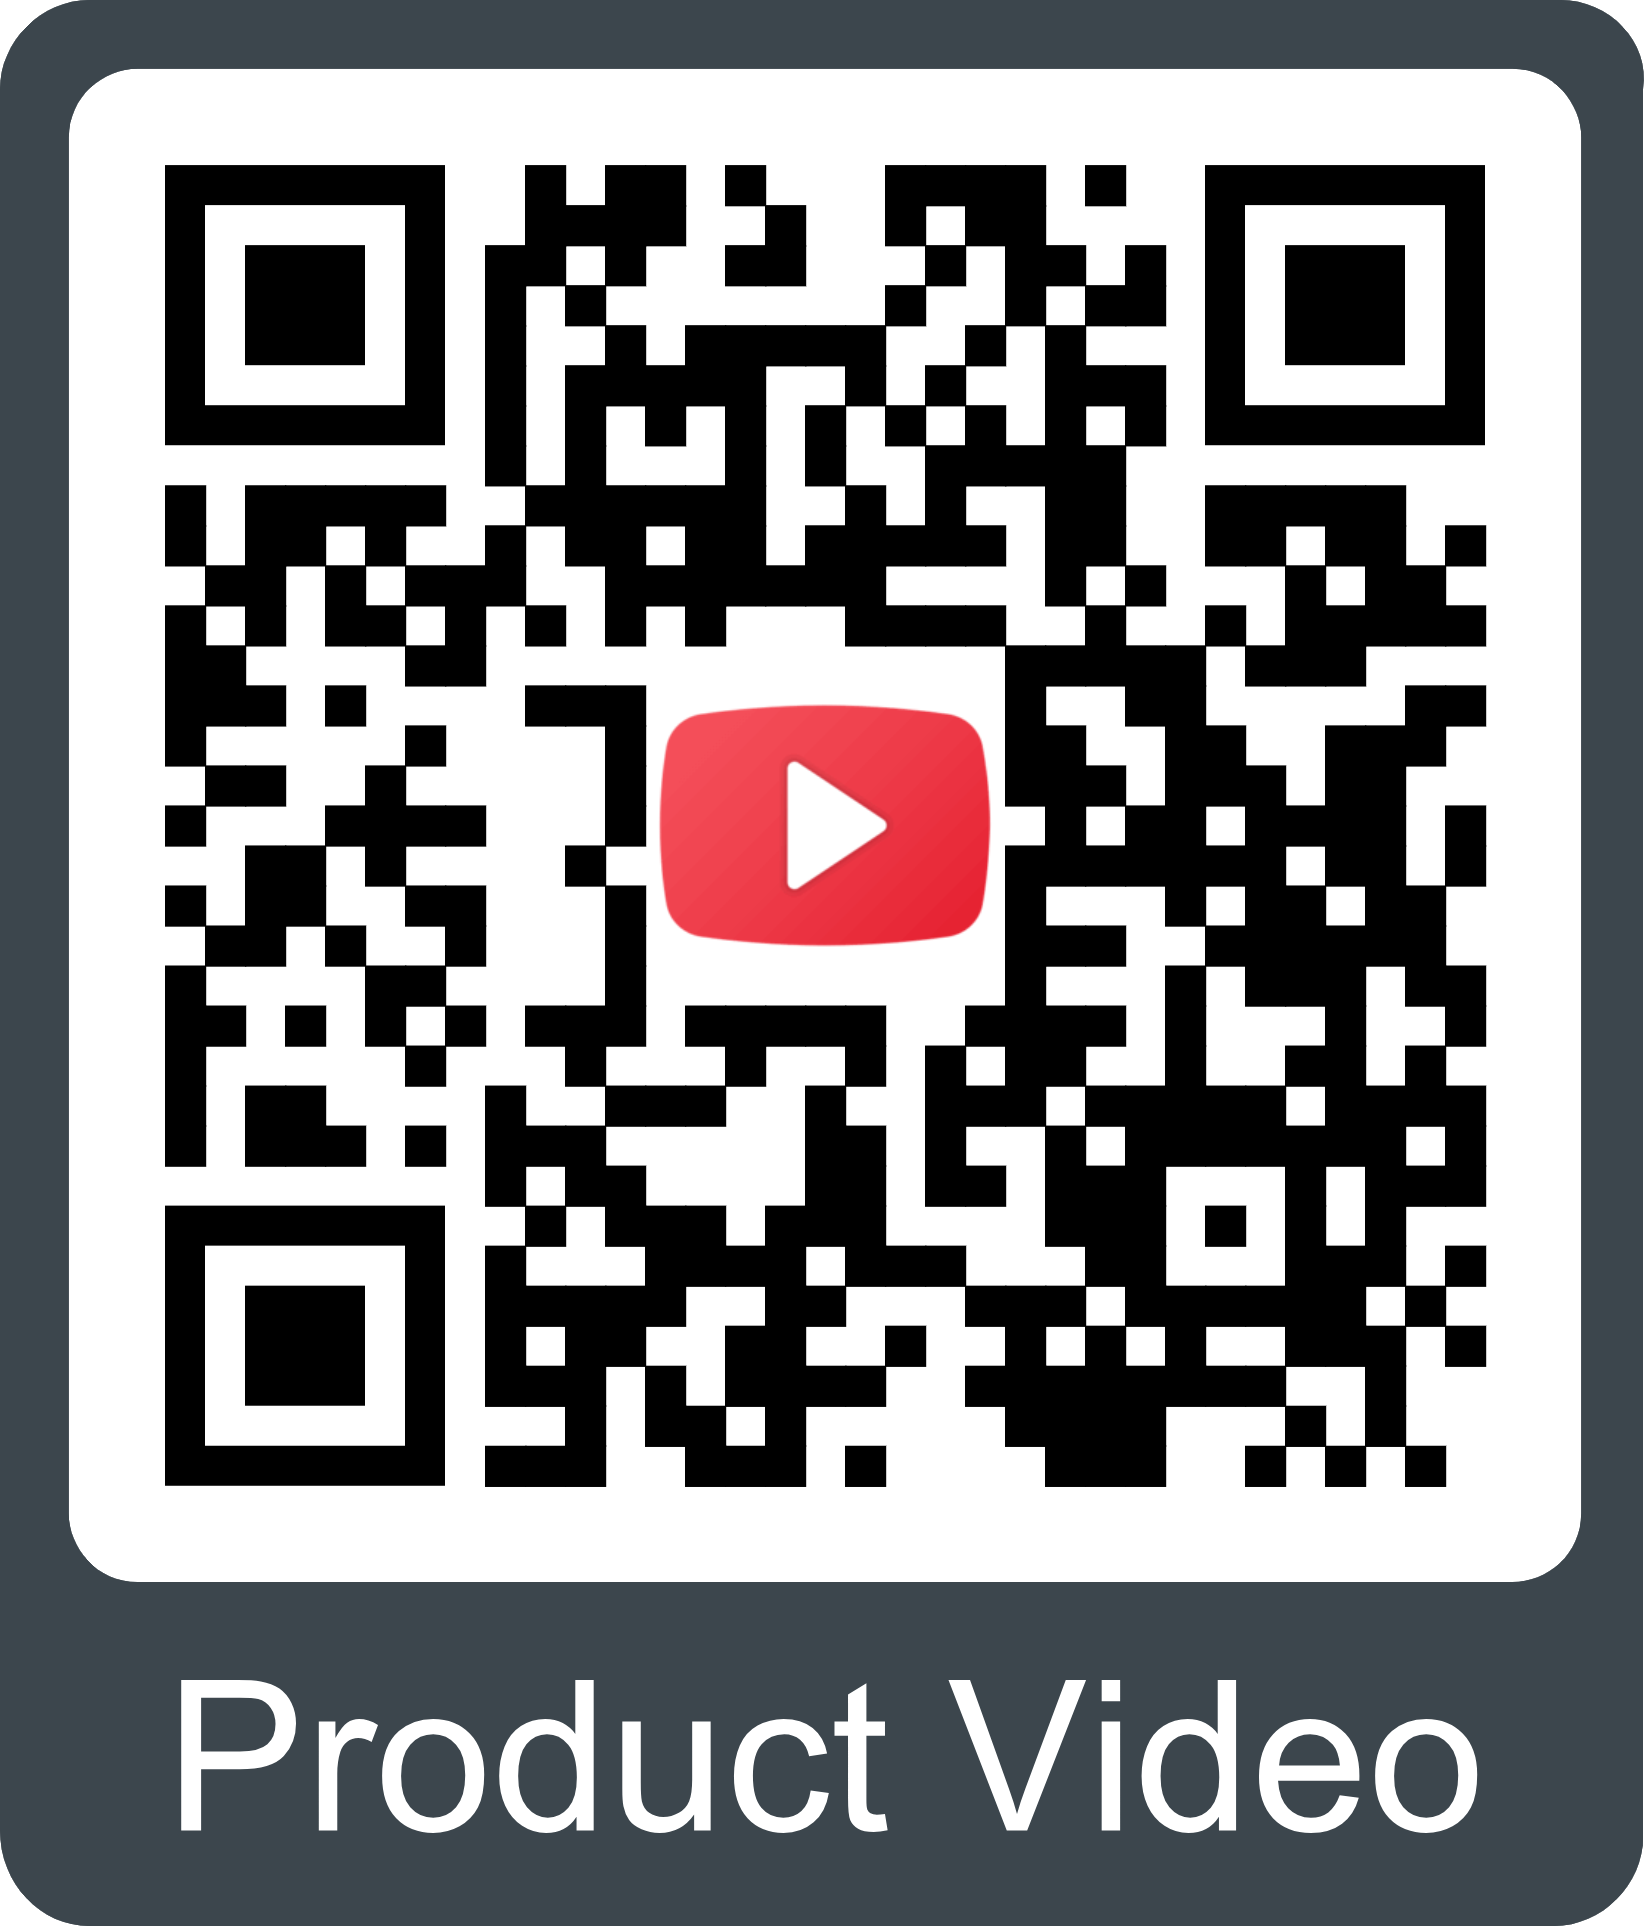
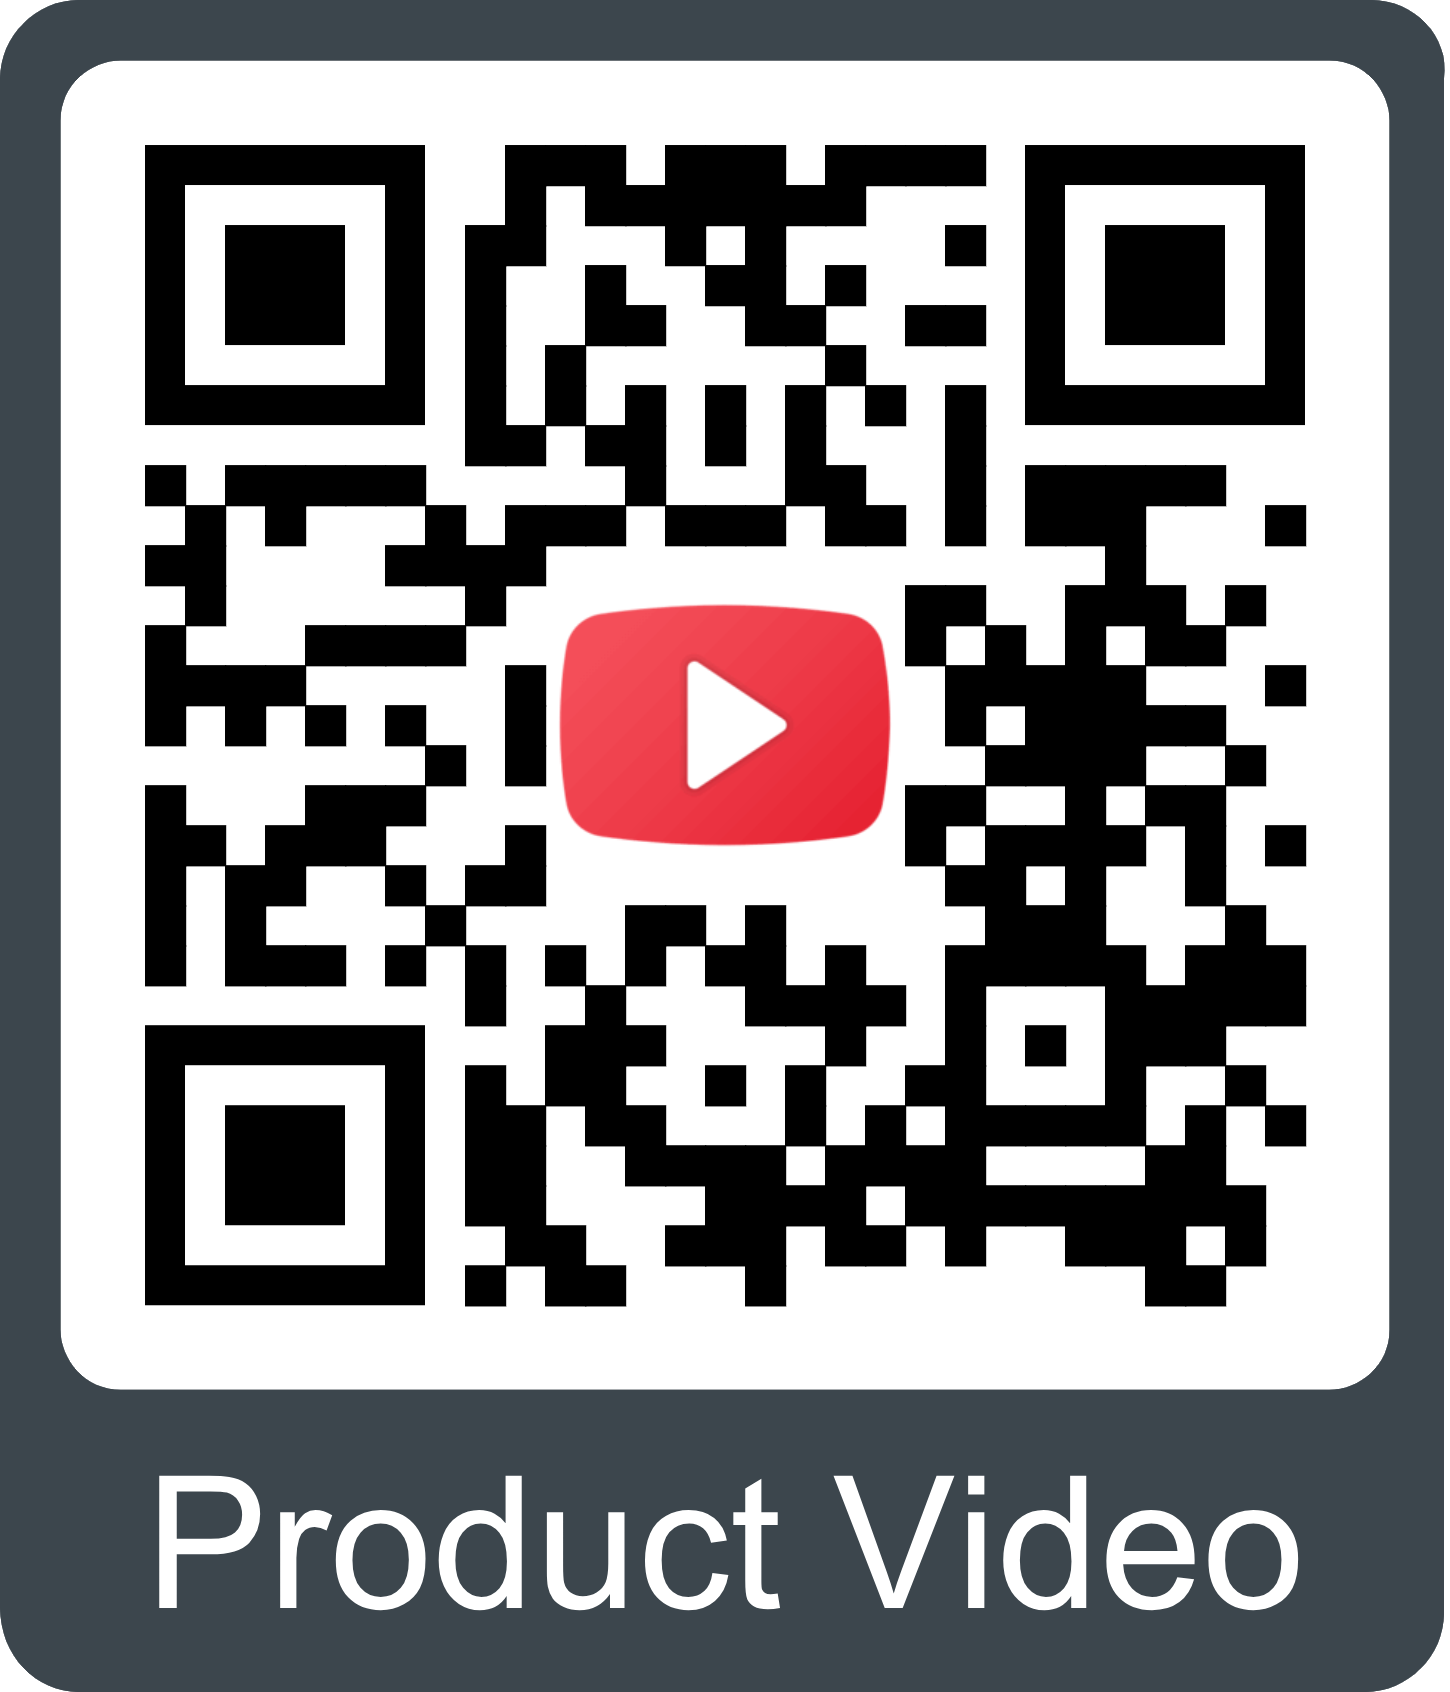
Update video links
Update product video link and QR code
Add QR code for Qwiic connect system video

Changed region(s): [[0.0931, 0.0615, 0.9, 0.7991]]

diff --git a/docs/hardware_overview.md b/docs/hardware_overview.md
@@ -22,7 +22,7 @@ The circuit board dimensions are illustrated in the drawing below; the measureme
 		Eagle is a [CAD]("computer-aided design") program for electronics that is free to use for hobbyists and students. However, it does require an account registration to utilize the software.
 
 		<center>
-		[Download from<br>:autodesk-primary:{ .autodesk }](https://www.autodesk.com/products/eagle/free-download "Go to downloads page"){ .md-button .md-button--primary width="250px" }
+		[Download from<br>:autodesk-primary:{ .autodesk }](https://www.autodesk.com/products/eagle/free-download "Go to downloads page"){ .md-button .md-button--primary width="200px" }
 		</center>
 
 	??? info ":straight_ruler: Dimensions Tool"
@@ -32,9 +32,9 @@ The circuit board dimensions are illustrated in the drawing below; the measureme
 
 		<div class="video">
 		<iframe src="https://www.youtube.com/embed/dZLNd1FtNB8" title="EAGLE Dimension Tool" frameborder="0" allow="accelerometer; autoplay; clipboard-write; encrypted-media; gyroscope; picture-in-picture" allowfullscreen></iframe>
-		</div>
 
 		![QR code to instructional video](./assets/img/qr_code/dimension_tool.png){ .qr width=100 }
+		</div>
 
 		</center>
 
@@ -1108,8 +1108,11 @@ Some of the RA6M5's peripheral capabilities may be inaccessible to users with th
 	</div>
 
 
-
 	??? tip "What is Qwiic?"
+
+		<div class="grid" markdown>
+
+		<div markdown>
 
 		<!-- Qwiic Banner -->
 		<center>
@@ -1119,15 +1122,24 @@ Some of the RA6M5's peripheral capabilities may be inaccessible to users with th
 
 		---
 
-		The [Qwiic connect system](https://www.sparkfun.com/qwiic) is a solderless, polarized connection system that allows users to seamlessly daisy chain I^2^C boards together. Play the video below to learn more about the Qwiic connect system or click on the banner above to learn more about [Qwiic products](https://www.sparkfun.com/qwiic).
+		The [Qwiic connect system](https://www.sparkfun.com/qwiic) is a solderless, polarized connection system that allows users to seamlessly daisy chain 	I^2^C boards together. Play the video below to learn more about the Qwiic connect system or click on the banner above to learn more about [Qwiic 	products](https://www.sparkfun.com/qwiic).
 
+		</div>
+
+
+		<div style="max-height=400px;" markdown>
 
 		<center>
-		<div class="video">
-		<iframe src="https://www.youtube.com/embed/x0RDEHqFIF8" title="SparkFun's Qwiic Connect System" frameborder="0" allow="accelerometer; encrypted-media; gyroscope; picture-in-picture" allowfullscreen></iframe>
+		<div class="video-container">
+		<iframe src="https://www.youtube.com/embed/x0RDEHqFIF8" title="SparkFun's Qwiic Connect System" frameborder="0" allow="accelerometer; 	encrypted-media; gyroscope; picture-in-picture" allowfullscreen></iframe>
+
+		![QR code to instructional video](./assets/img/qr_code/qwiic_video.png){ .qr width=100 }
 		</div>
 		</center>
 
+		</div>
+
+		</div>
 
 		!!! info "Features of the Qwiic System"
 
@@ -1480,6 +1492,8 @@ A Qwiic connector is provided for users to seamlessly integrate with [SparkFun's
 	<center>
 	<div class="video-container">
 	<iframe src="https://www.youtube.com/embed/x0RDEHqFIF8" title="SparkFun's Qwiic Connect System" frameborder="0" allow="accelerometer; encrypted-media; gyroscope; picture-in-picture" allowfullscreen></iframe>
+
+	![QR code to instructional video](./assets/img/qr_code/qwiic_video.png){ .qr width=100 }
 	</div>
 	</center>
 

diff --git a/docs/introduction.md b/docs/introduction.md
@@ -19,7 +19,7 @@ icon: material/book-open-page-variant
 	<center>
 
 	<article class="video-container">
-	<iframe src="https://www.youtube.com/embed/ci_T3abVPSw" title="Product Showcase Video" frameborder="0" allow="accelerometer; autoplay; clipboard-write; encrypted-media; gyroscope; picture-in-picture" allowfullscreen></iframe>
+	<iframe src="https://www.youtube.com/embed/A9NTdowiY_o" title="Product Showcase Video" frameborder="0" allow="accelerometer; autoplay; clipboard-write; encrypted-media; gyroscope; picture-in-picture" allowfullscreen></iframe>
 	![QR code to product video](./assets/img/qr_code/product_video.png){ .qr width=100 }
 	</article>
 
@@ -355,6 +355,8 @@ To get started, users will need a few items. Some users may already have a few o
 		<center>
 		<div class="video-container">
 		<iframe src="https://www.youtube.com/embed/x0RDEHqFIF8" title="SparkFun's Qwiic Connect System" frameborder="0" allow="accelerometer; encrypted-media; gyroscope; picture-in-picture" allowfullscreen></iframe>
+
+		![QR code to instructional video](./assets/img/qr_code/qwiic_video.png){ .qr width=100 }
 		</div>
 		</center>
 

diff --git a/README.md b/README.md
@@ -17,7 +17,7 @@ The SparkFun RA6M5 Thing Plus also features Bluetooth® Low Energy connectivity,
 Documentation
 --------------
 
-* **[Hookup Guide (mkdocs)](http://docs.sparkfun.com/SparkFun_Thing_Plus_RA6M5/)** - Hookup guide for the mosaic-X5 GNSS Breakout hosted by GitHub pages.<br>
+* **[Hookup Guide (mkdocs)](http://docs.sparkfun.com/SparkFun_Thing_Plus_RA6M5/)** - The hookup guide for the Thing Plus - RA6M5 hosted by GitHub pages.<br>
   [![Built with Material for MkDocs](https://img.shields.io/badge/Material_for_MkDocs-526CFE?logo=MaterialForMkDocs&logoColor=white)](https://squidfunk.github.io/mkdocs-material/) [![GitHub Pages Deploy](https://github.com/sparkfun/SparkFun_Thing_Plus_RA6M5/actions/workflows/mkdocs.yml/badge.svg)](https://github.com/sparkfun/SparkFun_Thing_Plus_RA6M5/actions/workflows/mkdocs.yml)
 * [SparkFun Graphical Datasheets](https://github.com/sparkfun/Graphical_Datasheets) -Graphical Datasheets for various SparkFun products.
 

diff --git a/docs/resources.md b/docs/resources.md
@@ -13,7 +13,7 @@ icon: material/book-open-page-variant
 - :simple-arduino: Arduino Libraries:
 	- [FastLED Arduino library](https://github.com/FastLED/FastLED/)
 	- [SparkFun MAX1704x Fuel Gauge Arduino library](https://github.com/sparkfun/SparkFun_MAX1704x_Fuel_Gauge_Arduino_Library)
-- :material-youtube: [SFE Product Showcase](https://www.youtube.com/watch?v=ci_T3abVPSw)
+- :material-youtube: [SFE Product Showcase](https://www.youtube.com/watch?v=A9NTdowiY_o)
 - :material-github: [Hardware Repo](https://github.com/sparkfun/SparkFun_Thing_Plus_RA6M5)
 
 ### :sfe-logo: Additional Resources
